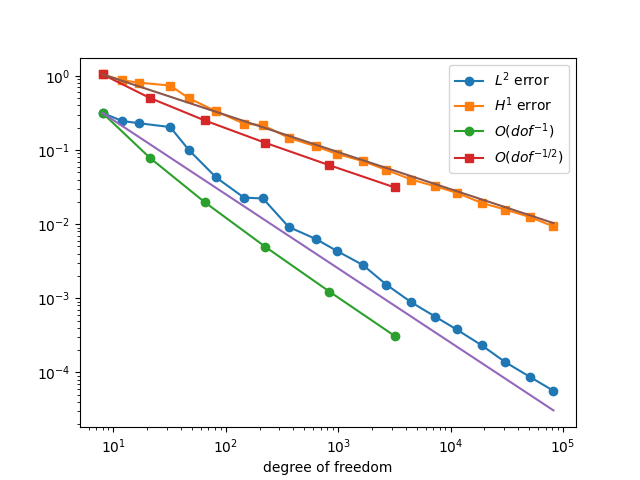
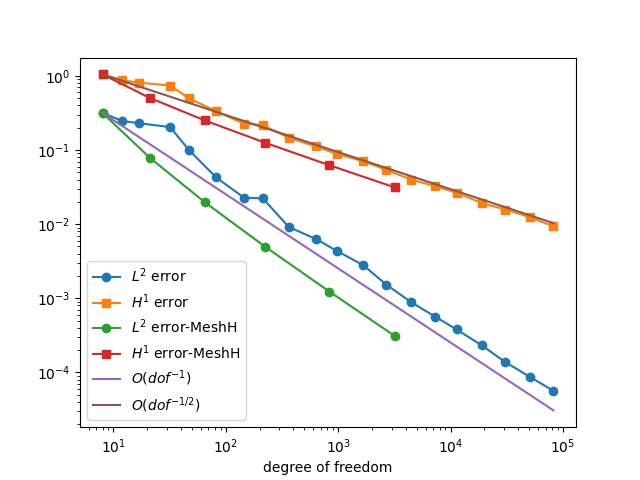
status

diff --git a/Ex3_square_all_snowflake_adap/test_singular.py b/Ex3_square_all_snowflake_adap/test_singular.py
@@ -24,16 +24,16 @@ from netgen.geom2d import SplineGeometry
 from geogen import *
 from Ex3_solver import *
 deg=int(input("Enter the degree of polynomial in FEM space:"))
-tolerance = 1e-7
+tolerance = 1e-15
 max_iterations = 20
 
 geo = SplineGeometry()
-p1=geo.AppendPoint(*[0,0])
-p2=geo.AppendPoint(*[1,0])
-p3=geo.AppendPoint(*[1,1])
-p4=geo.AppendPoint(*[2,1])
-p5=geo.AppendPoint(*[2,2])
-p6=geo.AppendPoint(*[0,2])
+p1=geo.AppendPoint(*[-1,-1])
+p2=geo.AppendPoint(*[0,-1])
+p3=geo.AppendPoint(*[0,0])
+p4=geo.AppendPoint(*[1,0])
+p5=geo.AppendPoint(*[1,1])
+p6=geo.AppendPoint(*[-1,1])
 geo.Append (["line",p1 ,p2], bc =3 )
 geo.Append (["line",p2 ,p3], bc =2 )
 geo.Append (["line",p3 ,p4], bc =2 )
@@ -60,13 +60,13 @@ print(f"Initial mesh plot saved to 'figures/singular.pdf'.")
 df=[]
 err=[]
 err2=[]
-PETSc.Sys.Print("Test with solution  u=2+x^2+y ")
+PETSc.Sys.Print("Test with solution  u=r^{2/3}sin(2/3 theta) ")
 it=0
 sum_eta=1
 while sum_eta>tolerance and it<max_iterations:
   x, y = SpatialCoordinate(mesh)
-  f = Constant(-2.)
-  u = 2 + x**2 + y
+  f = 0.0
+  u=conditional(x>0,(x**2+y**2)**(1/3.)*sin(2/3*atan(y/x)),(x**2+y**2)**(1/3.)*sin(2/3*(atan(y/x)+pi)))
   V = FunctionSpace(mesh,"Lagrange",deg)
   uh = snowsolver(mesh, f,u,V)
   mark,sum_eta = Mark(mesh, f,uh,V,tolerance)
@@ -89,8 +89,11 @@ while sum_eta>tolerance and it<max_iterations:
   PETSc.Sys.Print("Error of solution in L2 norm is ", err_temp)
   PETSc.Sys.Print("Error of solution in H1 norm is ", err2_temp)
 
+
+PETSc.Sys.Print(f"refined {it} times")
+
 # Check the uniform refinement result
-MH = MeshHierarchy(mesh_u, 5)
+MH = MeshHierarchy(mesh_u, 8)
 err_u=[]
 err2_u=[]
 df_u=[]
@@ -119,7 +122,6 @@ for i in range(0, len(MH)):
 
 
 
-PETSc.Sys.Print(f"refined {it} times")
 NN=np.array([(df[0]/df[i])**(1.)*err[0] for i in range(0,len(err))])
 NN2=np.array([(df[0]/df[i])**(1./2.)*err2[0] for i in range(0,len(err))])
 plt.figure()
@@ -129,7 +131,7 @@ plt.loglog(df_u, err_u,marker='o')
 plt.loglog(df_u, err2_u,marker='s')
 plt.loglog(df, NN)
 plt.loglog(df, NN2)
-plt.legend(['$L^2$ error', '$H^1$ error', '$O(dof^{-1})$','$O(dof^{-1/2})$'])
+plt.legend(['$L^2$ error', '$H^1$ error','$L^2$ error-MeshH', '$H^1$ error-MeshH', '$O(dof^{-1})$','$O(dof^{-1/2})$'])
 plt.xlabel('degree of freedom')
 plt.savefig(f"figures/singular_test_dof.png")
 PETSc.Sys.Print(f"Error vs degree of freedom  saved to figures/singular_test_dof.png")
